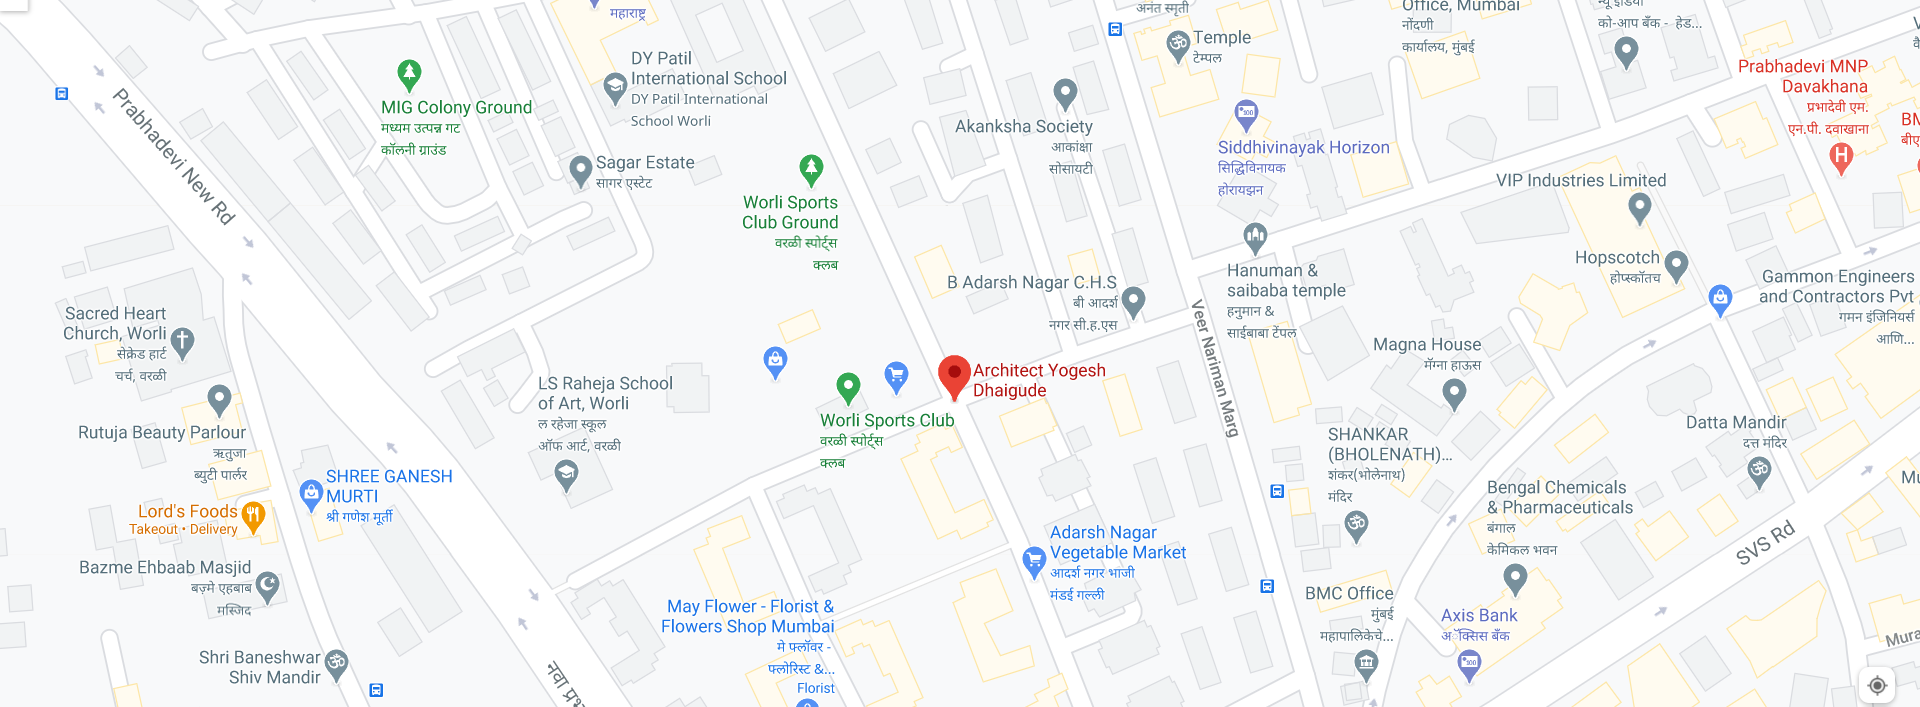
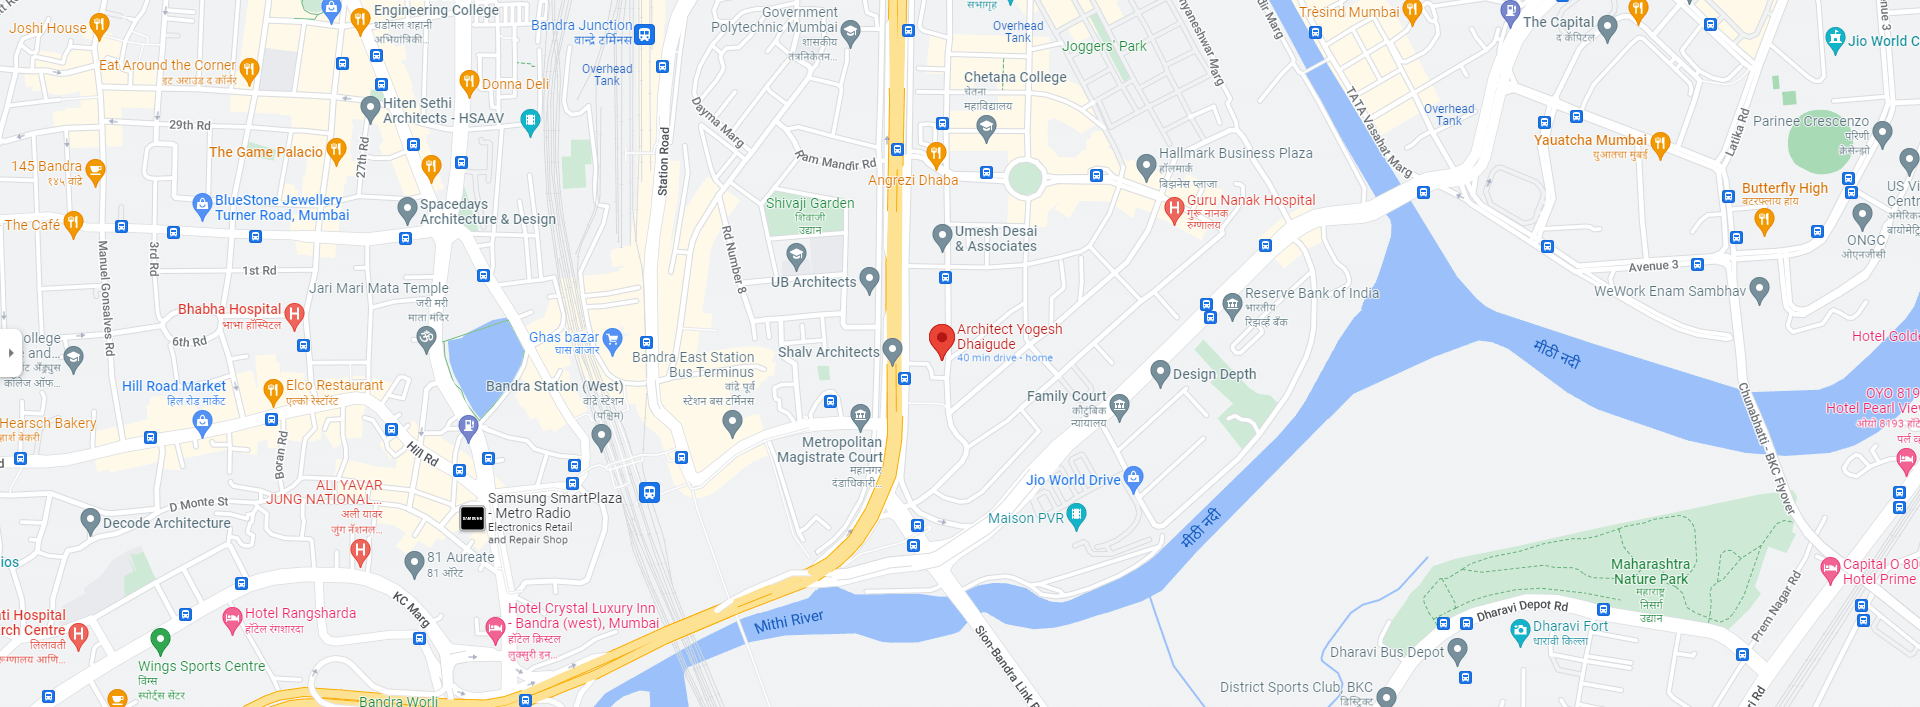
updated address

diff --git a/src/Contact.js b/src/Contact.js
@@ -29,15 +29,15 @@ function Contact() {
         <br />
         <address>
           <strong>Office</strong><br />
-          581/33, Adarsh Nagar,<br />
-          Worli,
-          Mumbai 400030,<br />
-          Maharashtra,<br />
+          2338/49 Gandhi Nagar Opp. MIG Club,<br />
+          Bandra East,
+          Mumbai,<br />
+          Maharashtra 400051,<br />
           India
         </address>
       </div>
       <div data-aos="zoom-in-up" data-aos-duration="1000">
-        <a target="_blank" rel="noreferrer" href="https://www.google.com/maps/place/Architect+Yogesh+Dhaigude/@19.0146542,72.8223423,15z/data=!4m2!3m1!1s0x0:0xd2cf514881c07906?sa=X&ved=2ahUKEwjm2665_KLtAhWCyzgGHW1RA4EQ_BIwE3oECBIQAw">
+        <a target="_blank" rel="noreferrer" href="https://www.google.com/maps/place/Architect+Yogesh+Dhaigude/@19.0568816,72.8453391,17z/data=!3m1!4b1!4m5!3m4!1s0x3be7cf27ae09120f:0xd2cf514881c07906!8m2!3d19.0568759!4d72.8475429">
           <img className="map-img" src={map} alt="map" />
         </a>
       </div>
